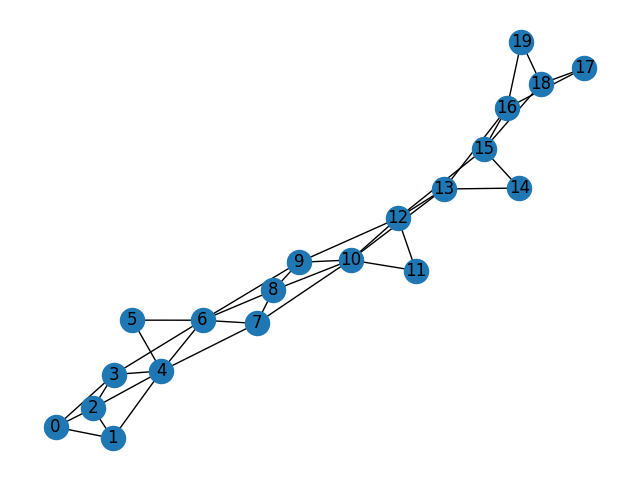
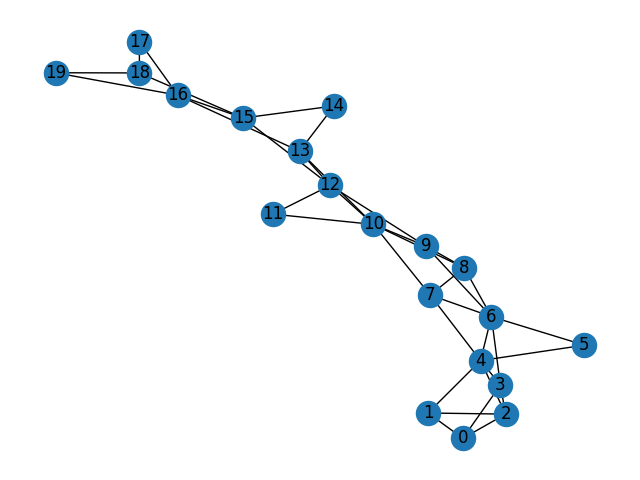
Updates to graph and algorithm

Changed region(s): [[0.0625, 0.2812, 0.9375, 0.9375], [0.0625, 0.0625, 0.5625, 0.2812], [0.7188, 0.0625, 0.9375, 0.3438]]

diff --git a/graph.py b/graph.py
@@ -1,40 +1,75 @@
+# import networkx as nx
+# import matplotlib.pyplot as plt
+
+# # Create an empty graph
+# G = nx.Graph()
+
+# # Add 20 nodes
+# G.add_nodes_from(range(20))
+
+# # Add 35 edges to make the graph denser
+# G.add_edges_from([(0,1),(1,2),(2,3),(3,4),(4,5),(5,6),(6,7),(7,8),(8,9),(9,10),(10,11),(11,12),(12,13),(13,14),(14,15),(15,16),(16,17),(17,18),(18,19),(0,3),(3,6),(6,9),(9,12),(12,15),(15,18),(1,4),(4,7),(7,10),(10,13),(13,16),(16,19),(0,2),(2,4),(4,6),(6,8),(8,10),(10,12)])
+
+# # Label every other node as "band" or "float"
+# node_labels = {}
+# for node in G.nodes():
+#     if node % 2 == 0:
+#         node_labels[node] = "band"
+#     else:
+#         node_labels[node] = "float"
+
+# # Set the node labels as an attribute of the graph
+# nx.set_node_attributes(G, node_labels, "label")
+
+# # Separate the nodes into two sets based on their labels
+# bands = {n for n,attrdict in G.nodes(data=True) if attrdict['label']=='band'}
+# floats = set(G) - bands
+
+# # Create a bipartite graph with the two node sets
+# B = nx.Graph()
+# B.add_nodes_from(bands, bipartite=0)
+# B.add_nodes_from(floats, bipartite=1)
+# B.add_edges_from(G.edges())
+
+# # Draw the graph with a spring layout and save it as a PNG image
+# pos = nx.spring_layout(B)
+# nx.draw(B, pos=pos, with_labels=True)
+# node_labels = nx.get_node_attributes(B, 'label')
+# nx.draw_networkx_labels(B, pos, labels=node_labels)
+# plt.savefig('bipartite_graph.png')
+# plt.show()
+
+
 import networkx as nx
 import matplotlib.pyplot as plt
+import random
 
-# Create an empty graph
+# Set the number of nodes
+num_nodes = 20
+
+# Create an empty bipartite graph
 G = nx.Graph()
 
-# Add 20 nodes
-G.add_nodes_from(range(20))
+# Add two sets of nodes, each with num_nodes/2 vertices
+G.add_nodes_from(range(num_nodes//2), bipartite=0)
+G.add_nodes_from(range(num_nodes//2, num_nodes), bipartite=1)
 
-# Add 35 edges to make the graph denser
-G.add_edges_from([(0,1),(1,2),(2,3),(3,4),(4,5),(5,6),(6,7),(7,8),(8,9),(9,10),(10,11),(11,12),(12,13),(13,14),(14,15),(15,16),(16,17),(17,18),(18,19),(0,3),(3,6),(6,9),(9,12),(12,15),(15,18),(1,4),(4,7),(7,10),(10,13),(13,16),(16,19),(0,2),(2,4),(4,6),(6,8),(8,10),(10,12)])
+# Add random edges between the two sets of nodes
+edges = []
+for i in range(num_nodes//2):
+    neighbors = random.sample(range(num_nodes//2, num_nodes), random.randint(1, num_nodes//2-1))
+    edges += [(i, j) for j in neighbors]
+G.add_edges_from(edges)
 
-# Label every other node as "band" or "float"
-node_labels = {}
-for node in G.nodes():
-    if node % 2 == 0:
-        node_labels[node] = "band"
-    else:
-        node_labels[node] = "float"
+# Assign a color to each node based on its bipartite set
+color_map = ['red' if G.nodes[n]['bipartite'] == 0 else 'blue' for n in G.nodes()]
 
-# Set the node labels as an attribute of the graph
-nx.set_node_attributes(G, node_labels, "label")
+# Draw the bipartite graph with labels and colors using a spring layout
+pos = nx.spring_layout(G, seed=42)
+nx.draw(G, pos, with_labels=True, node_color=color_map)
 
-# Separate the nodes into two sets based on their labels
-bands = {n for n,attrdict in G.nodes(data=True) if attrdict['label']=='band'}
-floats = set(G) - bands
-
-# Create a bipartite graph with the two node sets
-B = nx.Graph()
-B.add_nodes_from(bands, bipartite=0)
-B.add_nodes_from(floats, bipartite=1)
-B.add_edges_from(G.edges())
-
-# Draw the graph with a spring layout and save it as a PNG image
-pos = nx.spring_layout(B)
-nx.draw(B, pos=pos, with_labels=True)
-node_labels = nx.get_node_attributes(B, 'label')
-nx.draw_networkx_labels(B, pos, labels=node_labels)
-plt.savefig('bipartite_graph.png')
+# Show the plot
+plt.savefig('spring.png')
 plt.show()
+
+

diff --git a/jillian-coloring.py b/jillian-coloring.py
@@ -1,41 +1,2 @@
-from matplotlib import pyplot as plt
-import networkx as nx
-
-def is_bipartite(graph):
-    """
-    Returns True if the given graph is bipartite, and False otherwise.
-    """
-    # Start DFS from an arbitrary node in the graph
-    start_node = next(iter(graph.nodes()))
-    visited = {start_node: 0}  # mark the start node as visited and assign it to set 0
-    stack = [start_node]
-
-    # Perform DFS while maintaining the visited set and the set assignments
-    while stack:
-        node = stack.pop()
-        node_set = visited[node]
-
-        # Assign the opposite color to all unvisited neighbors
-        for neighbor in graph.neighbors(node):
-            if neighbor not in visited:
-                visited[neighbor] = 1 - node_set
-                stack.append(neighbor)
-                print(stack)
-            elif visited[neighbor] == node_set:
-                # If a neighbor has the same color as the current node, the graph is not bipartite
-                return False
-
-    # If we've visited all nodes without conflicts, the graph is bipartite
-    return True
-G = nx.Graph()
-G.add_nodes_from(range(20))
-for i in range(20):
-    for j in range(i+1, 20):
-        G.add_edge(i, j)
-pos = {i: (i % 10, i // 10) if i < 10 else ((i-10) % 10, (i-10) // 10 + 1) for i in range(20)}
-nx.draw(G, pos=pos, with_labels=True)    
-#plt.show() # show the plot
-
-# Check if the graph is bipartite
-print(is_bipartite(G))
+ 
 

diff --git a/test.py b/test.py
@@ -1,5 +1,6 @@
 import networkx as nx
 import matplotlib.pyplot as plt
+import random
 
 
 def is_bipartite(graph):
@@ -27,15 +28,26 @@ def is_bipartite(graph):
 
     # If we've visited all nodes without conflicts, the graph is bipartite
     return "The graph is bipartite"
+# Set the number of nodes
+num_nodes = 20
+
+
 G = nx.Graph()
-G.add_nodes_from(range(20))
-for i in range(20):
-    for j in range(i+1, 20):
-        G.add_edge(i, j)
 
-# arrange the nodes in two straight lines
-pos = {i: (i % 10, i // 10) if i < 10 else ((i-10) % 10, (i-10) // 10 + 1) for i in range(20)}
-nx.draw(G, pos=pos, with_labels=True) # draw the nodes and edges
+# Add two sets of nodes, each with num_nodes/2 vertices
+G.add_nodes_from(range(num_nodes//2), bipartite=0)
+G.add_nodes_from(range(num_nodes//2, num_nodes), bipartite=1)
 
-# Check if the graph is bipartite
+edges = []
+for i in range(num_nodes//2):
+    neighbors = random.sample(range(num_nodes//2, num_nodes), random.randint(1, num_nodes//2-1))
+    edges += [(i, j) for j in neighbors]
+G.add_edges_from(edges)
+
+# Assign a color to each node based on its bipartite set
+color_map = ['red' if G.nodes[n]['bipartite'] == 0 else 'blue' for n in G.nodes()]
+
+# Draw the bipartite graph with labels and colors using a spring layout
+pos = nx.spring_layout(G, seed=42)
+nx.draw(G, pos, with_labels=True, node_color=color_map)
 print(is_bipartite(G))

diff --git a/index.md b/index.md
@@ -182,7 +182,7 @@ print(is_bipartite(G))
 ```
 
 **Visualization**:
-![my_graph.png](bipartite_graph.png)
+![my_graph.png](spring.png)
 
 **solution code** 
 ```python
@@ -190,6 +190,9 @@ print(is_bipartite(G))
 def is_bipartite(graph):
     """
     Returns True if the given graph is bipartite, and False otherwise.
+    """
+    """
+    Returns a message indicating whether the given graph is bipartite or not.
     """
     # Start DFS from an arbitrary node in the graph
     start_node = next(iter(graph.nodes()))
@@ -208,15 +211,15 @@ def is_bipartite(graph):
                 stack.append(neighbor)
             elif visited[neighbor] == node_set:
                 # If a neighbor has the same color as the current node, the graph is not bipartite
-                return False
+                return "The graph is not bipartite"
 
     # If we've visited all nodes without conflicts, the graph is bipartite
-    return True
+    return "The graph is bipartite"
 ```
 **Output**
 
 ```python 
-True
+The graph is bipartite
 ```
 
 **Interpretation of results**
